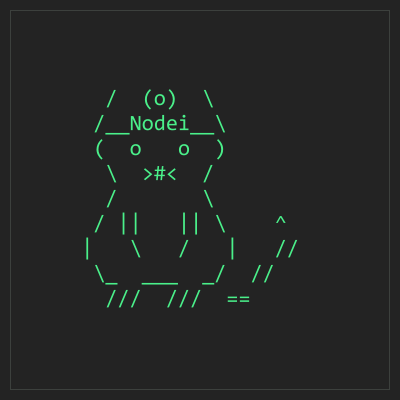
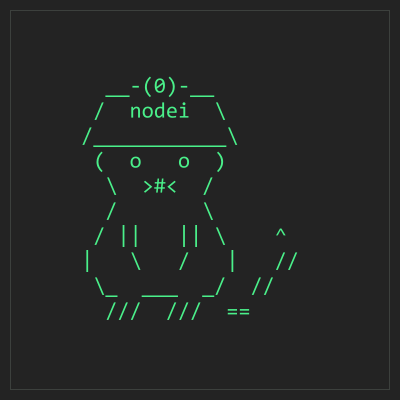
feat: cat cap redesign and a proper twitter bird
- cat hat matches the supplied sketch: __-(0)-__ over a nodei band over the
  brim. lines realigned so the hat centres on the head - the sketch's third
  line was offset, which would have sheared the drawing
- pixel bird reshaped from the earlier blob into a real silhouette: beak
  jutting right off the head, tail feathers breaking out left, belly sweeping
  rather than tapering to a symmetric point

diff --git a/src/components/shared/PixelBird.tsx b/src/components/shared/PixelBird.tsx
@@ -3,22 +3,22 @@
  * language as the rest of the site. Inherits colour via currentColor.
  */
 const PATTERN = [
-  '..............##', // beak
-  '............####',
-  '..........#####.',
-  '.........#####..',
-  '.#.......#####..', // tail feathers break out to the left
-  '.###....######..',
-  '.#####.#######..',
+  '.........###....',
+  '........#####...',
+  '.......######...',
+  '.......######.##', // beak juts right off the head
+  '.#.....#########',
+  '.###...#########',
+  '.#####.########.', // tail feathers break out to the left
   '.##############.',
   '.#############..',
+  '..############..',
   '..###########...',
-  '..##########....',
-  '...########.....',
-  '...#######......', // belly sweeps left rather than tapering to a point
-  '....#####.......',
-  '....###.........',
-  '.....#..........',
+  '...#########....',
+  '...########.....', // belly sweeps left rather than tapering to a point
+  '....######......',
+  '....####........',
+  '.....##.........',
 ]
 
 export function PixelBird({ size = 14 }: { size?: number }) {
